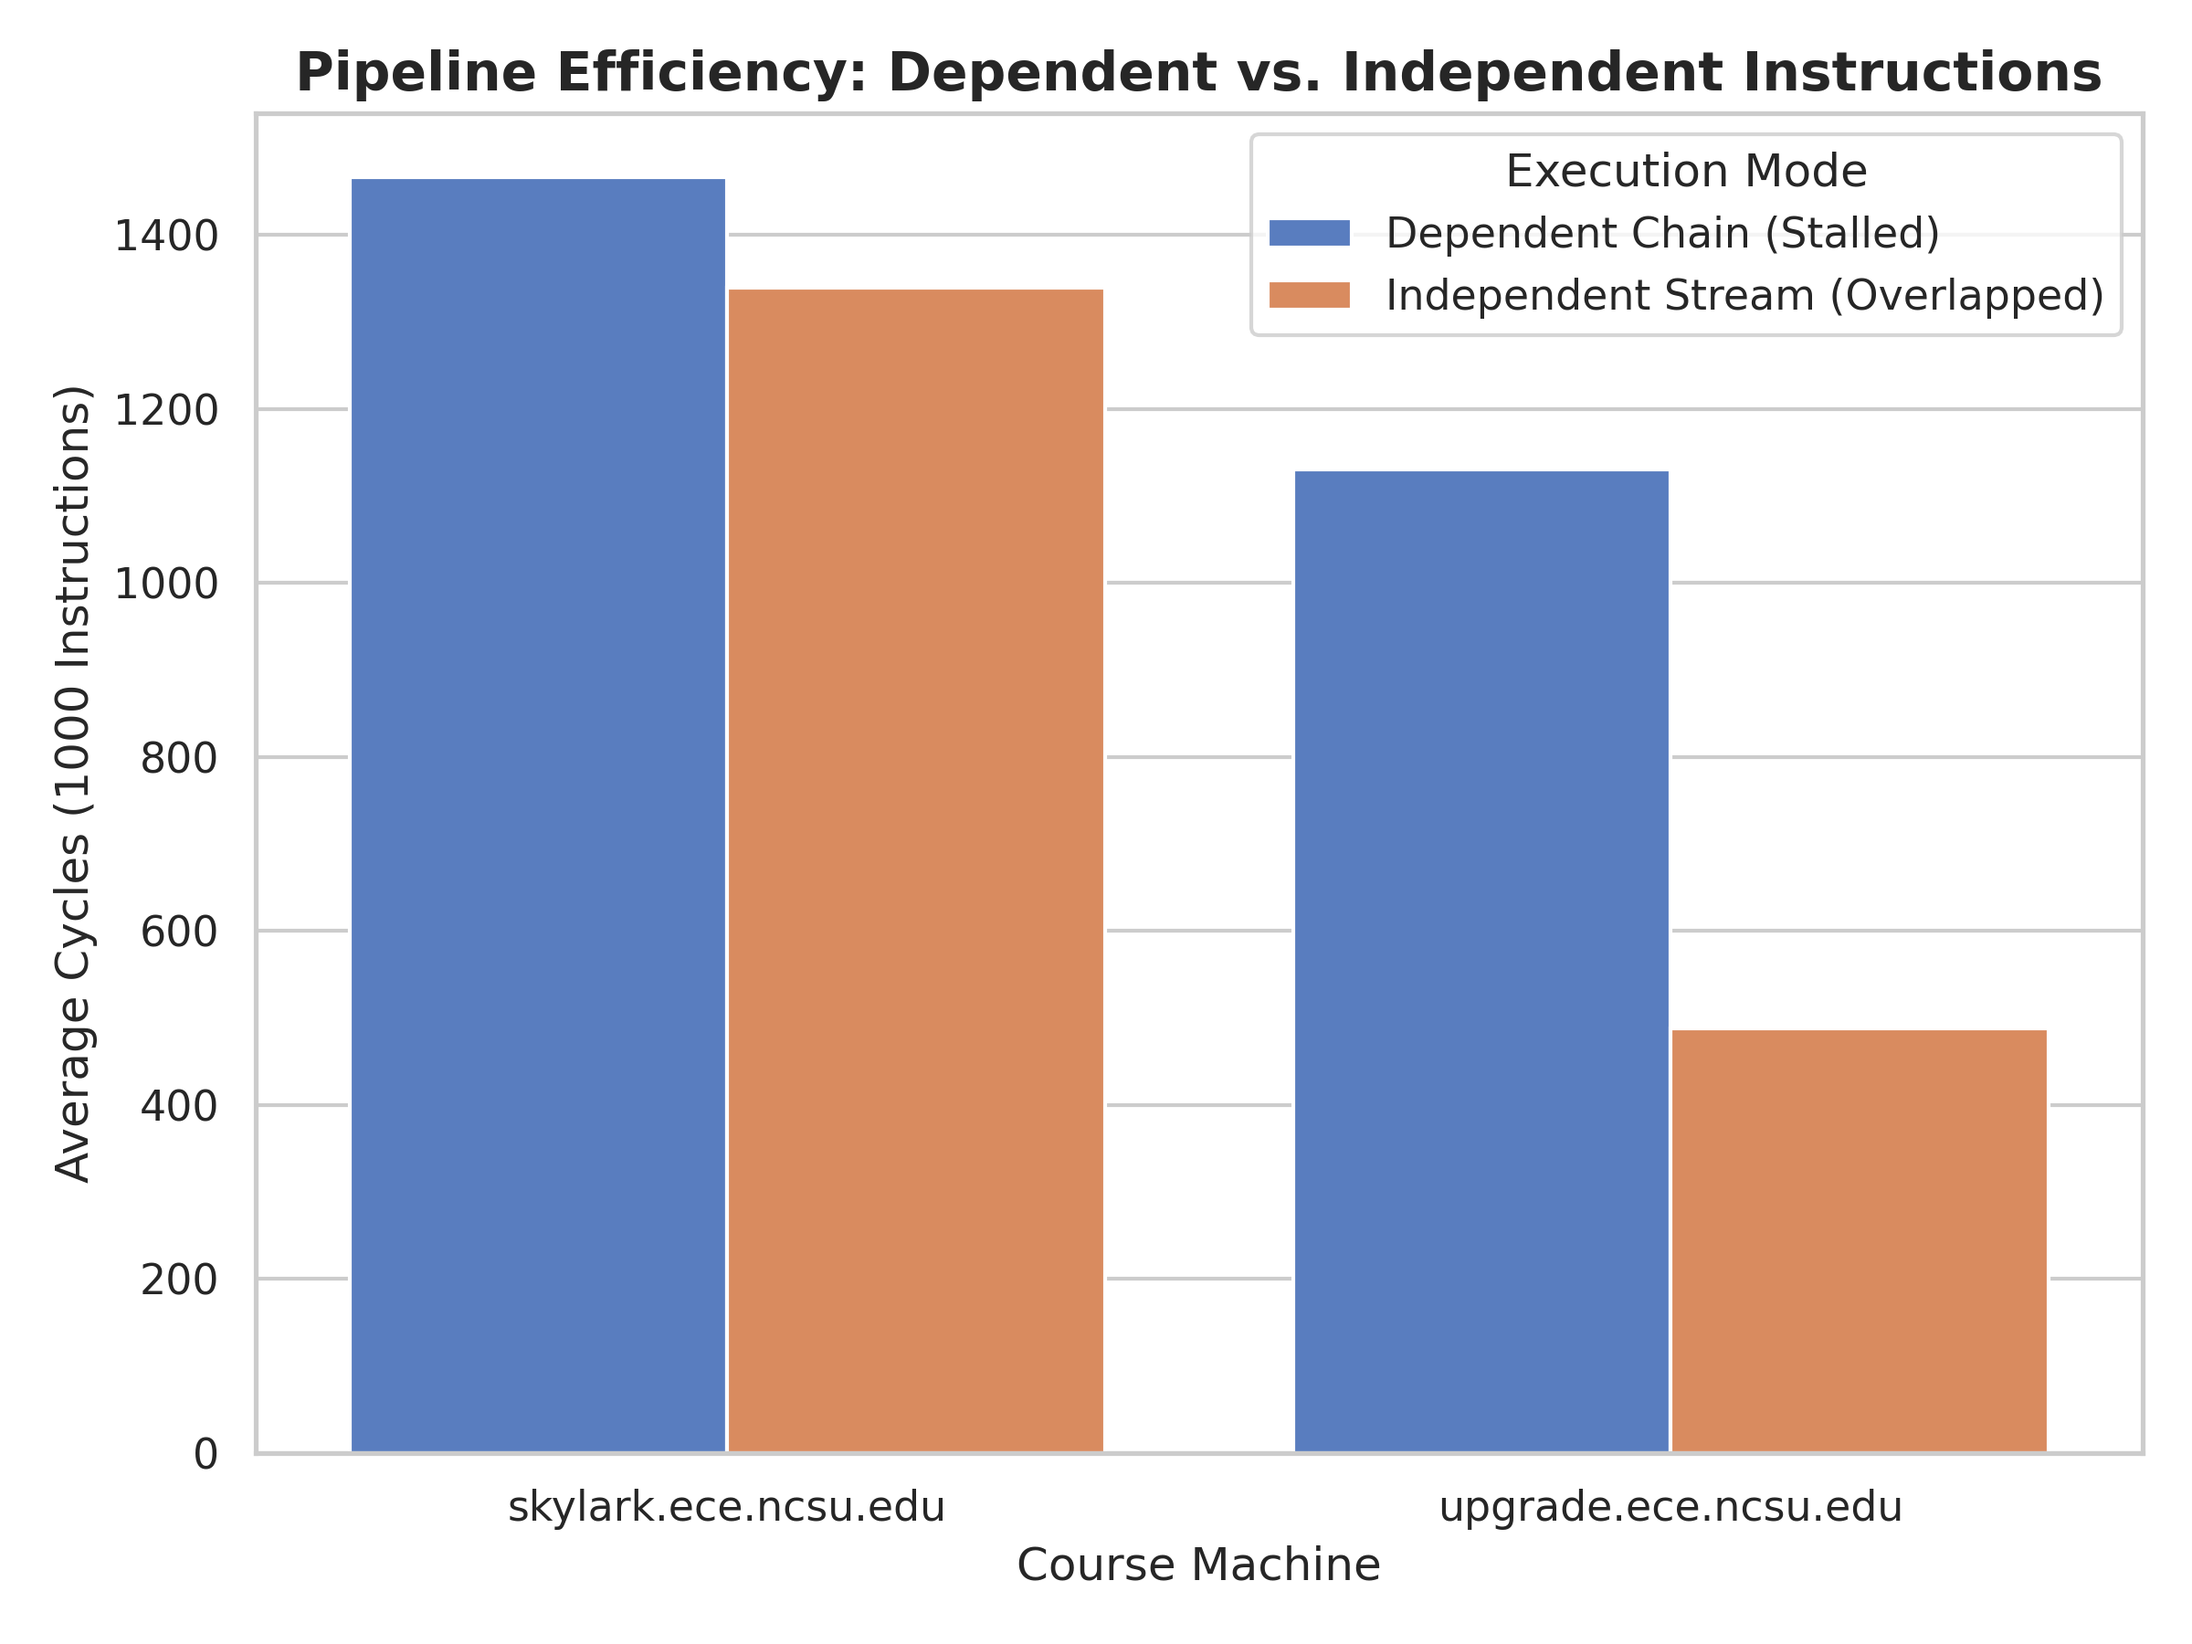
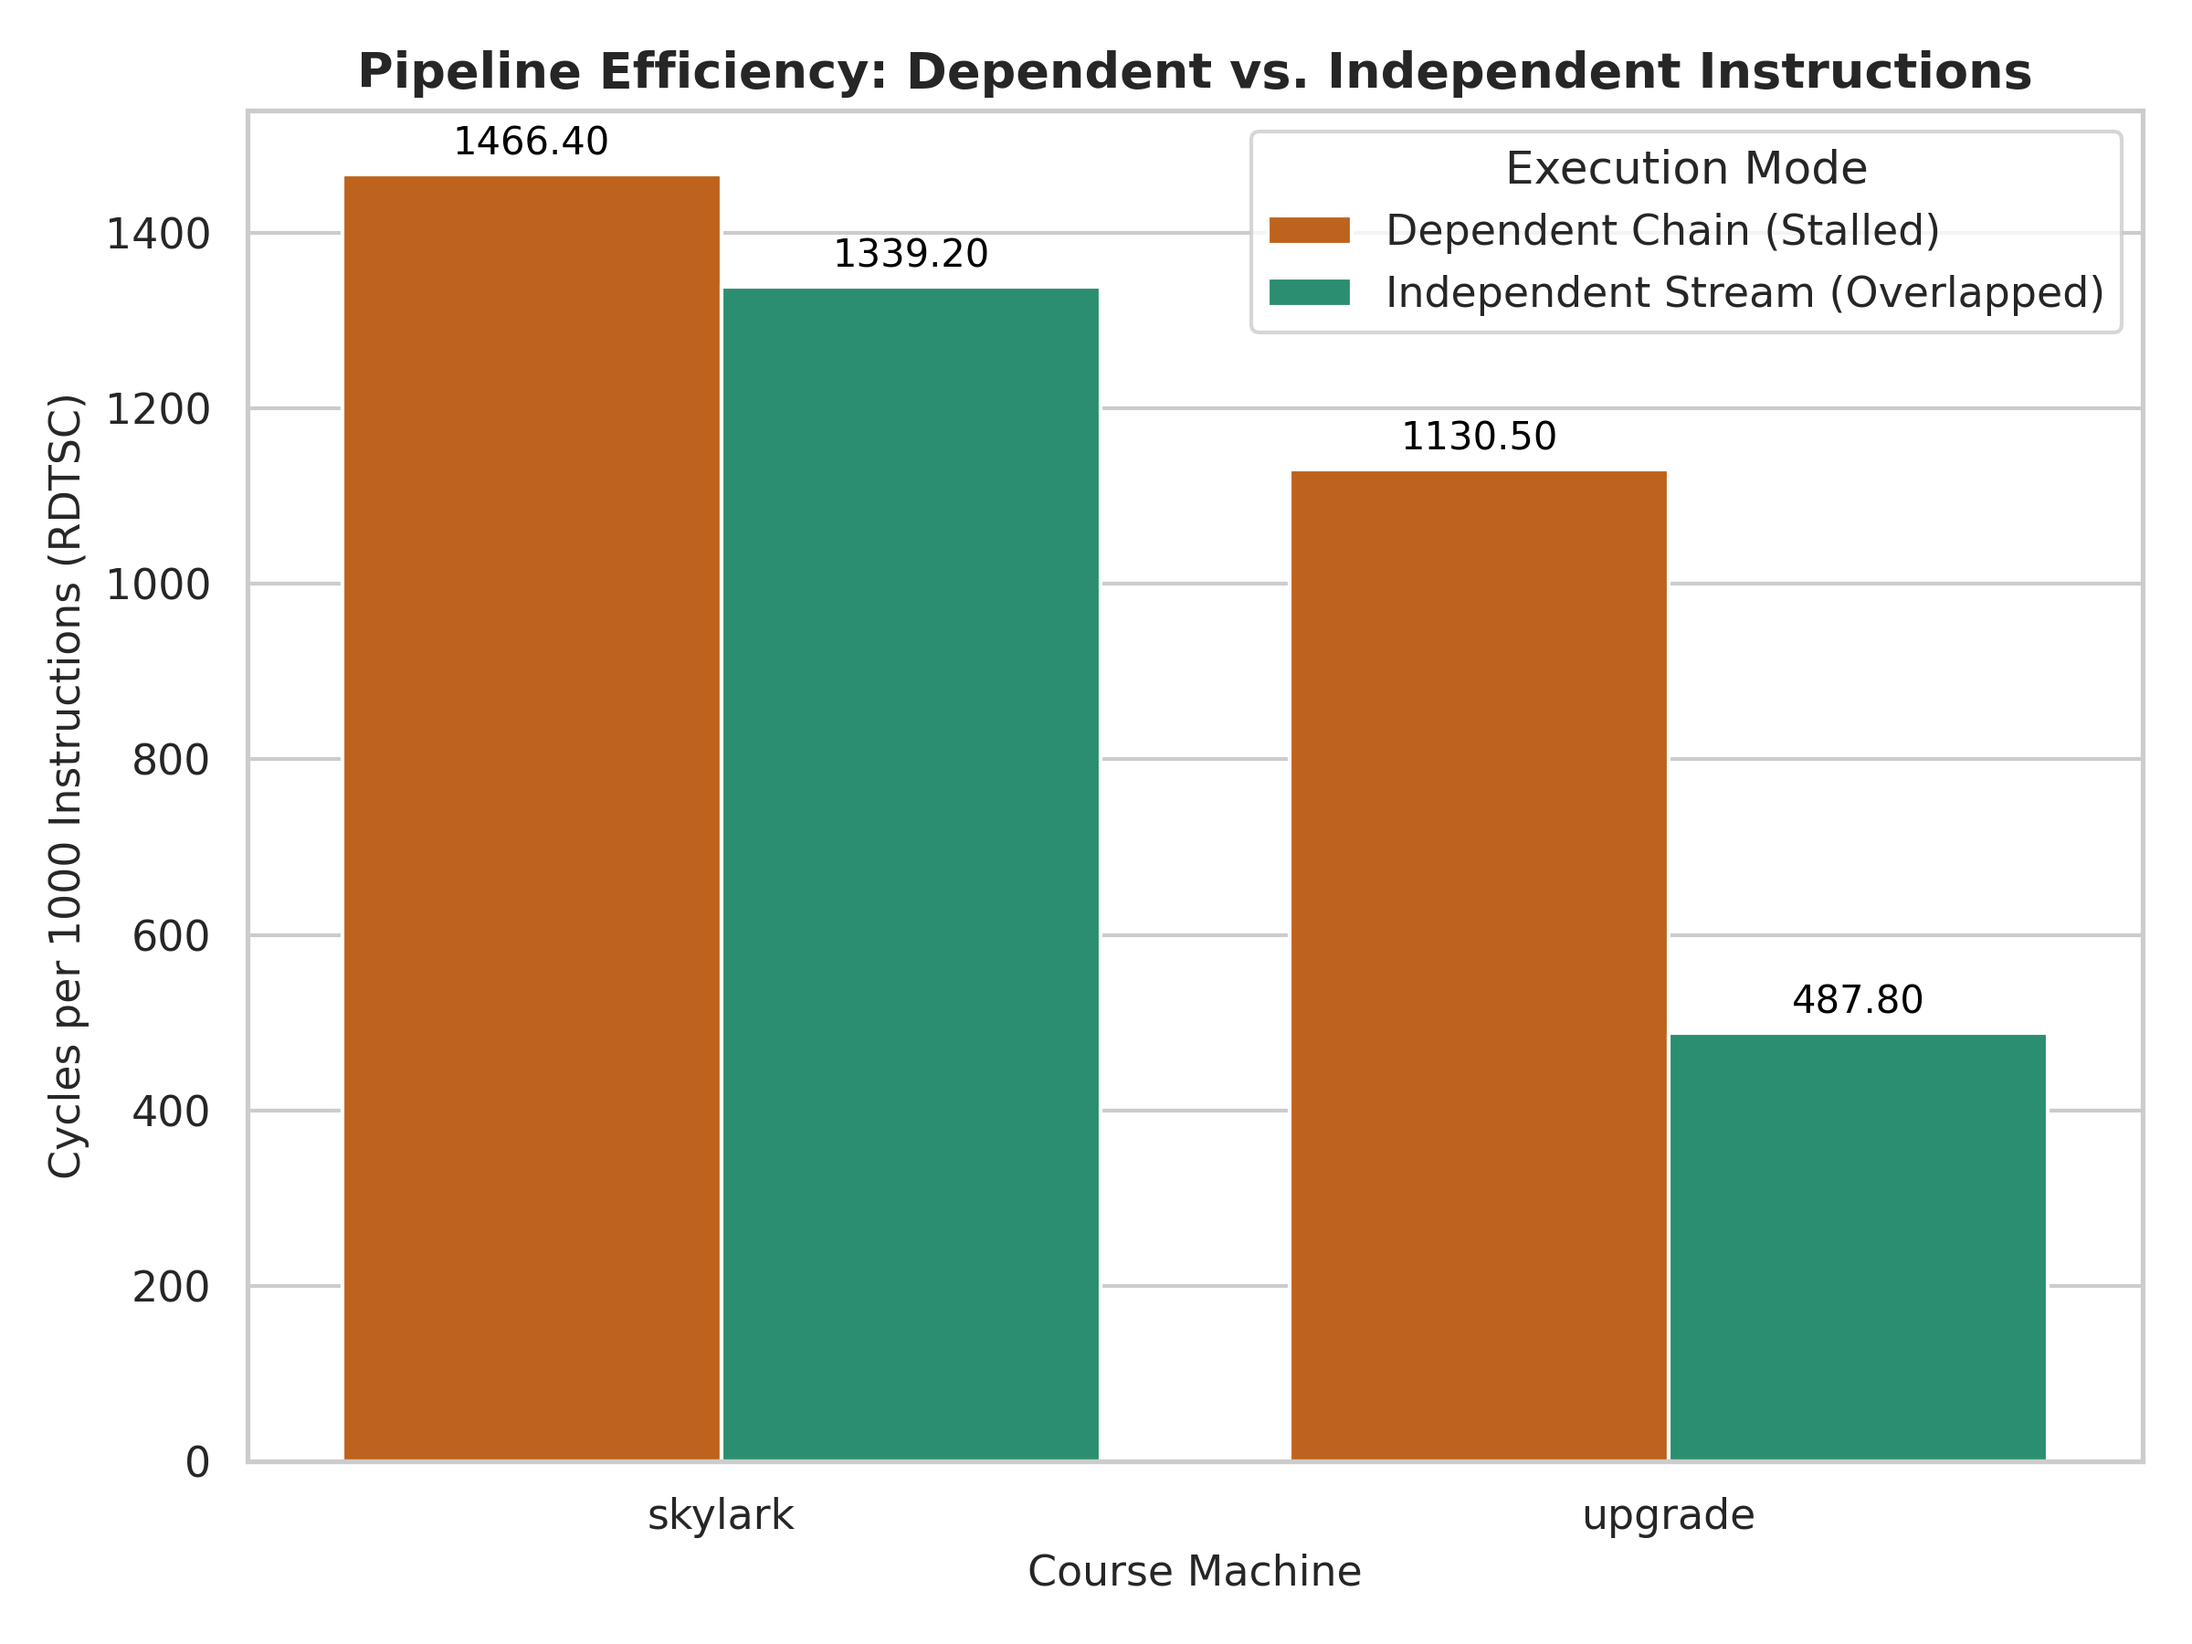
Add skylark ROB benchmark data and update comparison plots

diff --git a/plots/plot_q1.py b/plots/plot_q1.py
@@ -1,25 +1,33 @@
 import pandas as pd
 import matplotlib.pyplot as plt
 import seaborn as sns
+import glob
 import os
 
-upgrade_path = os.path.join("..", "data", "q1_pipelined", "upgrade_q1.csv")
-skylark_path = os.path.join("..", "data", "q1_pipelined", "skylark_q1.csv")
+# Find CSV files across repository paths
+search_paths = [
+    "data/q1_pipelined/*_q1.csv",
+    "../data/q1_pipelined/*_q1.csv"
+]
 
-dfs = []
-if os.path.exists(upgrade_path):
-    dfs.append(pd.read_csv(upgrade_path))
-if os.path.exists(skylark_path):
-    dfs.append(pd.read_csv(skylark_path))
+csv_files = []
+for pattern in search_paths:
+    files = glob.glob(pattern)
+    if files:
+        csv_files.extend(files)
 
-if not dfs:
-    if os.path.exists("upgrade_q1.csv"): dfs.append(pd.read_csv("upgrade_q1.csv"))
-    if os.path.exists("skylark_q1.csv"): dfs.append(pd.read_csv("skylark_q1.csv"))
+csv_files = list(set(csv_files))
+print(f"Found CSV files: {csv_files}")
+
+dfs = [pd.read_csv(f) for f in csv_files]
 
 if dfs:
-    df = pd.concat(dfs)
+    df = pd.concat(dfs, ignore_index=True)
     df.columns = df.columns.str.strip()
     
+    # Clean up machine names (e.g., skylark.ece.ncsu.edu -> skylark)
+    df["Machine"] = df["Machine"].str.split(".").str[0]
+
     avg_df = df.groupby("Machine")[["Dependent_Cycles", "Independent_Cycles"]].mean().reset_index()
 
     plot_df = avg_df.melt(id_vars="Machine", value_vars=["Dependent_Cycles", "Independent_Cycles"],
@@ -30,17 +38,36 @@ if dfs:
         "Independent_Cycles": "Independent Stream (Overlapped)"
     })
 
-    plt.figure(figsize=(8, 6))
+    # Set up a 1-row, 2-column figure layout (or single clean panel styled like your reference)
     sns.set_theme(style="whitegrid")
-    sns.barplot(x="Machine", y="Average Cycles", hue="Instruction Type", data=plot_df, palette="muted")
+    fig, ax = plt.subplots(figsize=(8, 6))
 
-    plt.title("Pipeline Efficiency: Dependent vs. Independent Instructions", fontsize=14, weight="bold")
-    plt.ylabel("Average Cycles (1000 Instructions)", fontsize=12)
-    plt.xlabel("Course Machine", fontsize=12)
-    plt.legend(title="Execution Mode")
+    palette = {"Dependent Chain (Stalled)": "#d95f02", "Independent Stream (Overlapped)": "#1b9e77"}
+    bars = sns.barplot(x="Machine", y="Average Cycles", hue="Instruction Type", data=plot_df, palette=palette, ax=ax)
+
+    # Add exact numerical labels on top of the bars (similar to your reference image)
+    for p in ax.patches:
+        height = p.get_height()
+        if height > 0:
+            ax.annotate(f'{height:.2f}',
+                        (p.get_x() + p.get_width() / 2., height),
+                        ha='center', va='bottom',
+                        fontsize=10, color='black',
+                        xytext=(0, 3),
+                        textcoords='offset points')
+
+    ax.set_title("Pipeline Efficiency: Dependent vs. Independent Instructions", fontsize=13, weight="bold")
+    ax.set_ylabel("Cycles per 1000 Instructions (RDTSC)", fontsize=11)
+    ax.set_xlabel("Course Machine", fontsize=11)
+    ax.legend(title="Execution Mode", loc="upper right")
 
     plt.tight_layout()
+    
+    # Save to plots directory
     plt.savefig("q1_pipeline_comparison.png", dpi=300)
-    print("Graph successfully generated and saved as plots/q1_pipeline_comparison.png")
+    if os.path.exists("../plots"):
+        plt.savefig("../plots/q1_pipeline_comparison.png", dpi=300)
+        
+    print("Graph successfully generated with data labels and reference styling!")
 else:
-    print("Error: No CSV data files found under data/q1_pipelined/. Please run the benchmark script first.")
+    print("Error: No CSV data files found.")
